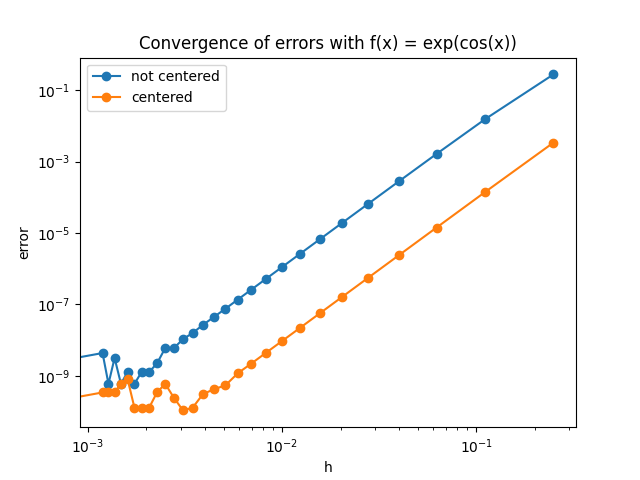
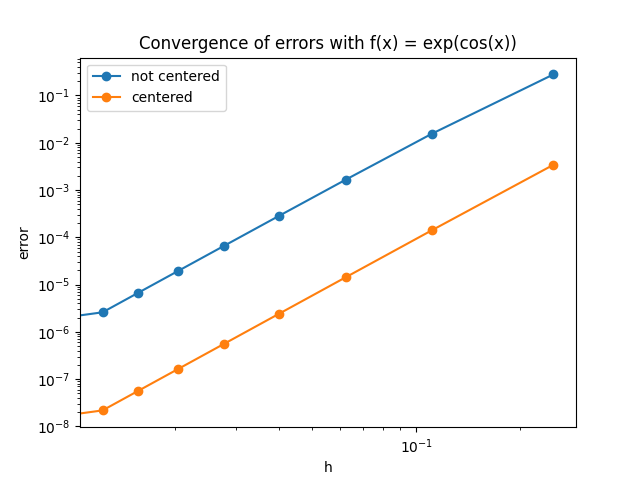
calc deriv coeficients

diff --git a/a1/cvn/ex3_2.py b/a1/cvn/ex3_2.py
@@ -2,22 +2,23 @@ import numpy as np
 import math
 import matplotlib.pyplot as plt
 
+
 def fdcoeffV(k, xbar, x):
 
     x = np.asarray(x, dtype=float)
     n = x.size
 
     A = np.ones((n, n), dtype=float)
-    xrow = (x - xbar) 
+    xrow = x - xbar
 
-    for i in range(1, n):  
-        A[i, :] = (xrow ** i) / math.factorial(i)
+    for i in range(1, n):
+        A[i, :] = (xrow**i) / math.factorial(i)
 
     b = np.zeros(n, dtype=float)
-    b[k] = 1.0  
+    b[k] = 1.0
 
     c = np.linalg.solve(A, b)
-    return c 
+    return c
 
 
 def fdcoeffF(k: int, xbar, x):
@@ -60,8 +61,10 @@ def fdcoeffF(k: int, xbar, x):
     c = C[:, k]
     return c
 
+
 def u(x):
     return np.exp(np.cos(x))
+
 
 def u_dd_exact_at_0():
     # u''(x) = (-cos x + sin^2 x) * exp(cos x), so u''(0) = -e
@@ -75,19 +78,18 @@ k = 2
 exact = u_dd_exact_at_0()
 print("Exact u''(0) =", exact)
 
-num = 30
-err = np.zeros(num-1)
-err_centered = np.zeros(num-1)
-hvals = np.zeros(num-1)
+num = 10
+err = np.zeros(num - 1)
+err_centered = np.zeros(num - 1)
+hvals = np.zeros(num - 1)
 
 i = 0
-for m in [ i for i in range(2, num)]:
+for m in range(2, num):
     h = 1 / m**2
     hvals[i] = h
 
     x_nodes = xbar + h * np.arange(0, 5)
-    x_nodes2 = xbar + h * np.arange(-2,3)
-
+    x_nodes2 = xbar + h * np.arange(-2, 3)
 
     c = fdcoeffF(k, xbar, x_nodes)
     c_centered = fdcoeffF(k, xbar, x_nodes2)
@@ -103,7 +105,6 @@ for m in [ i for i in range(2, num)]:
 print(f"h={h: .3e}   approx={approx: .12f}   err={err[-1]: .3e}")
 
 
-
 mask = np.isfinite(err) & (err > 0) & np.isfinite(hvals) & (hvals > 0)
 
 p = np.polyfit(np.log(hvals[mask]), np.log(err[mask]), 1)[0]
@@ -111,8 +112,8 @@ p_cent = np.polyfit(np.log(hvals[mask]), np.log(err_centered[mask]), 1)[0]
 print("Estimated convergence rate p_non_centered =", p)
 print("Estimated convergence rate p_centered =", p_cent)
 
-plt.loglog(hvals, err, 'o-', label = 'not centered')
-plt.loglog(hvals, err_centered, 'o-',label = 'centered')
+plt.loglog(hvals, err, "o-", label="not centered")
+plt.loglog(hvals, err_centered, "o-", label="centered")
 plt.xlabel("h")
 plt.ylabel("error")
 plt.legend()
@@ -121,3 +122,18 @@ plt.savefig("img/ex3_error.png")
 
 plt.plot(approx)
 plt.savefig("img/ex3_approx_func.png")
+
+
+## To check why we see order 4 conv. for uncentered
+a_4 = 11 / 12
+a_3 = -14 / 3
+a_2 = 19 / 2
+a_1 = -26 / 3
+a0 = 35 / 12
+
+f1 = -4 * a_4 - 3 * a_3 - 2 * a_2 - a_1
+f2 = 16 * a_4 + 9 * a_3 + 4 * a_2 + a_1
+f3 = -64 * a_4 - 27 * a_3 - 8 * a_2 - a_1
+f4 = 256 * a_4 + 81 * a_3 + 16 * a_2 + a_1
+f5 = -1024 * a_4 - 243 * a_3 - 32 * a_2 - a_1
+print(f"f1: {f1} f2: {f2} f3: {f3} f4: {f4} f5: {f5}")
